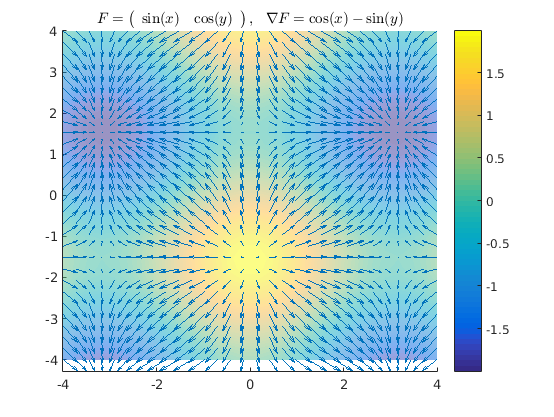
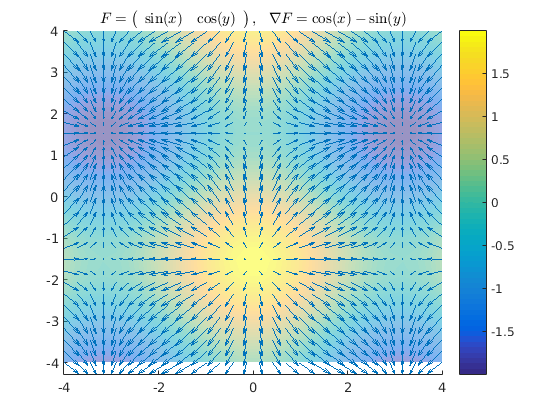
trivial

Changed region(s): [[0.0921, 0.0312, 0.7978, 0.9353], [0.8285, 0.0624, 0.9206, 0.8417], [0.8285, 0.8729, 0.8592, 0.9041]]

diff --git a/tantargyak/anal3/html/anal3_1het.html b/tantargyak/anal3/html/anal3_1het.html
@@ -85,7 +85,7 @@ F = [
     cos(y)
     ];
 
-divF = div(F);
+divF = divergence(F,r);
 
 [xx,yy] = ndgrid(linspace(-4,4,30));
 rr = {xx,yy};
@@ -116,8 +116,8 @@ F = [
     x*y*z^2
     ];
 
-div(F)
-rot(F)
+divergence(F,r)
+curl(F,r)
 
 n = 20;
 [xx,yy,zz] = ndgrid(linspace(-1,1,n));
@@ -200,7 +200,7 @@ ans =
  
 [ 0, 0, 0]
  
-</pre><h2>5. feladat<a name="5"></a></h2><pre class="codeinput">syms <span class="string">t</span> <span class="string">x</span> <span class="string">y</span> <span class="string">a</span> <span class="string">b</span> <span class="string">real</span>
+</pre><h2>5. feladat<a name="5"></a></h2><p>Integr&aacute;ljuk az <img src="anal3_1het_eq06821165643231428067.png" alt="$F(x,y) = \left( x^2, \-y^2 \right)$"> vektormez&#337;t a <img src="anal3_1het_eq08796078824778739634.png" alt="$\Gamma$"> negyed-ellipszis ment&eacute;n. Az ellipszis orig&oacute; k&ouml;z&eacute;ppont&uacute;, tengelyeinek hossza <img src="anal3_1het_eq10486036843295161194.png" alt="$2a$"> &eacute;s <img src="anal3_1het_eq17887648403019164601.png" alt="$2b$">. Kezd&#337;pont <img src="anal3_1het_eq04206169307293076993.png" alt="$A(a,0)$">, v&eacute;gpont <img src="anal3_1het_eq17289789443914481629.png" alt="$B(0,b)$"></p><pre class="codeinput">syms <span class="string">t</span> <span class="string">x</span> <span class="string">y</span> <span class="string">a</span> <span class="string">b</span> <span class="string">real</span>
 r = [x;y];
 
 <span class="comment">% Az ellipszis &aacute;tm&eacute;r&#337;i</span>
@@ -333,7 +333,7 @@ F = [
     cos(y)
     ];
 
-divF = div(F);
+divF = divergence(F,r);
 
 [xx,yy] = ndgrid(linspace(-4,4,30));
 rr = {xx,yy};
@@ -368,8 +368,8 @@ F = [
     x*y*z^2
     ];
 
-div(F)
-rot(F)
+divergence(F,r)
+curl(F,r)
 
 n = 20;
 [xx,yy,zz] = ndgrid(linspace(-1,1,n));
@@ -420,6 +420,10 @@ simplify(div(cross(F,G)) - (trans(G)*rot(F) - trans(F)*rot(G)))
 simplify(grad(trans(F)*G) - trans(F)*grad(G) - trans(G)*grad(F))
 
 %% 5. feladat
+% Integráljuk az $F(x,y) = \left( x^2, \-y^2 \right)$ vektormezőt a
+% $\Gamma$ negyed-ellipszis mentén. Az ellipszis origó középpontú,
+% tengelyeinek hossza $2a$ és $2b$. Kezdőpont $A(a,0)$, végpont
+% $B(0,b)$
 
 syms t x y a b real
 r = [x;y];

diff --git a/tantargyak/anal3/anal3_7het_potlas.m b/tantargyak/anal3/anal3_7het_potlas.m
@@ -161,3 +161,127 @@ disp(F')
 disp 'potential(F,r) [ha letezik potencialfuggveny] = '
 disp(potential(F,r))
 
+%% Matlab - function handle - szimbolikus objektum
+
+clc
+
+fprintf 'Adott egy fuggveny handle: f = '
+f = @(t,x) [ 
+    x(2)
+    -sin(x(1)) - 0.6*x(2)
+    ];
+disp(f)
+
+T = 30;
+[tt,xx] = ode45(f, [0,T], [1;0]);
+
+plot(tt,xx),
+h = legend('$\theta$ angle', '$\dot{\theta}$ angular velocity');
+set(h,'Interpreter','latex');
+
+% uj_x = interp1(regi_t, regi_x, uj_t)
+theta = interp1(tt,xx(:,1),linspace(tt(1),tt(end),T*10));
+
+coordx = sin(theta);
+coordy = -cos(theta);
+
+if false 
+    %%
+    figure(1);
+    for i = 1:numel(theta)
+        tic
+        plot([0,coordx(i)],[0,coordy(i)], 'linewidth', 4),
+        axis([-2,2,-2,2])
+        elapsed_time = toc;
+        pause(max(0.01-elapsed_time,0.01))
+    end
+end
+
+%% Matlab symbolikus fuggvenybol fuggveny handle
+clc
+syms t x1 x2 real
+
+f_sym = [
+    x2
+    -sin(x1) - x2/2
+    ];
+disp('f(x) = ')
+pretty(f_sym)
+
+disp 'matlabFunction(f_sym) [erre nem mukodik az ode45] = ' 
+f_fh1 = matlabFunction(f_sym);
+disp(f_fh1)
+
+disp 'matlabFunction(f_sym, ''vars'', {t, [x1;x2]}) = ' 
+f_fh2 = matlabFunction(f_sym, 'vars', {t, [x1;x2]});
+disp(f_fh2)
+
+figure,
+[tt,xx] = ode45(f_fh2, [0,30], [1;0]);
+plot(tt,xx)
+
+%% Szimbolikus integralas
+clc
+
+syms a b x y z real
+f = 1 / ( cos(x)^2 * cot(x)^2);
+
+disp 'f(x) = '
+pretty(f)
+
+F = int(f);
+
+fprintf 'F(x) = `int(f)` = \n', 
+pretty(F)
+
+fprintf '`rewrite(F,''sincos'')` = \n'
+pretty(rewrite(F,'sincos'))
+
+fprintf '`rewrite(F,''exp'')` = \n'
+pretty(rewrite(F,'exp'))
+
+%% Numerikus integralas - ode45-el
+
+T = 10;
+Ts = 0.01;
+
+syms t x real
+f_sym = sin(t^2);
+f_fh = matlabFunction(f_sym, 'vars',{t,x});
+[t,F] = ode45(f_fh, linspace(0,T,T/Ts), 1);
+% [t,F] = ode45(f_fh, [0,10], 1);
+plot(t,F), hold on
+plot(t,f_fh(t,0),'linewidth',2)
+plot(t(2:end), diff(F)/Ts)
+
+%% Numerikus integralas - integral -al
+
+syms x y real
+
+f = x^2 + sin(x)^2;
+f_fh = matlabFunction(f);
+
+I = integral(f_fh, 2, 3)
+
+%%
+F = int(f,x)
+II = double(subs(F,x,3) - subs(F,x,2))
+
+%% integral2
+
+syms x y real
+
+f = x^2 + y^2 + sin(x)^2;
+f_fh = matlabFunction(f);
+
+I = integral2(f_fh, -1, 1, @(x) -sqrt(1-x.^2), @(x) sqrt(1-x.^2))
+
+
+%%
+
+syms x y real
+f = x^2 + y^2 + sin(x)^2;
+
+F = int(f,x,2,3)
+
+%%

diff --git a/tantargyak/anal3/anal3_1het.m b/tantargyak/anal3/anal3_1het.m
@@ -36,7 +36,7 @@ F = [
     cos(y)
     ];
 
-divF = div(F);
+divF = divergence(F,r);
 
 [xx,yy] = ndgrid(linspace(-4,4,30));
 rr = {xx,yy};
@@ -71,8 +71,8 @@ F = [
     x*y*z^2
     ];
 
-div(F)
-rot(F)
+divergence(F,r)
+curl(F,r)
 
 n = 20;
 [xx,yy,zz] = ndgrid(linspace(-1,1,n));
@@ -123,6 +123,10 @@ simplify(div(cross(F,G)) - (trans(G)*rot(F) - trans(F)*rot(G)))
 simplify(grad(trans(F)*G) - trans(F)*grad(G) - trans(G)*grad(F))
 
 %% 5. feladat
+% Integráljuk az $F(x,y) = \left( x^2, \-y^2 \right)$ vektormezőt a
+% $\Gamma$ negyed-ellipszis mentén. Az ellipszis origó középpontú,
+% tengelyeinek hossza $2a$ és $2b$. Kezdőpont $A(a,0)$, végpont
+% $B(0,b)$
 
 syms t x y a b real
 r = [x;y];
